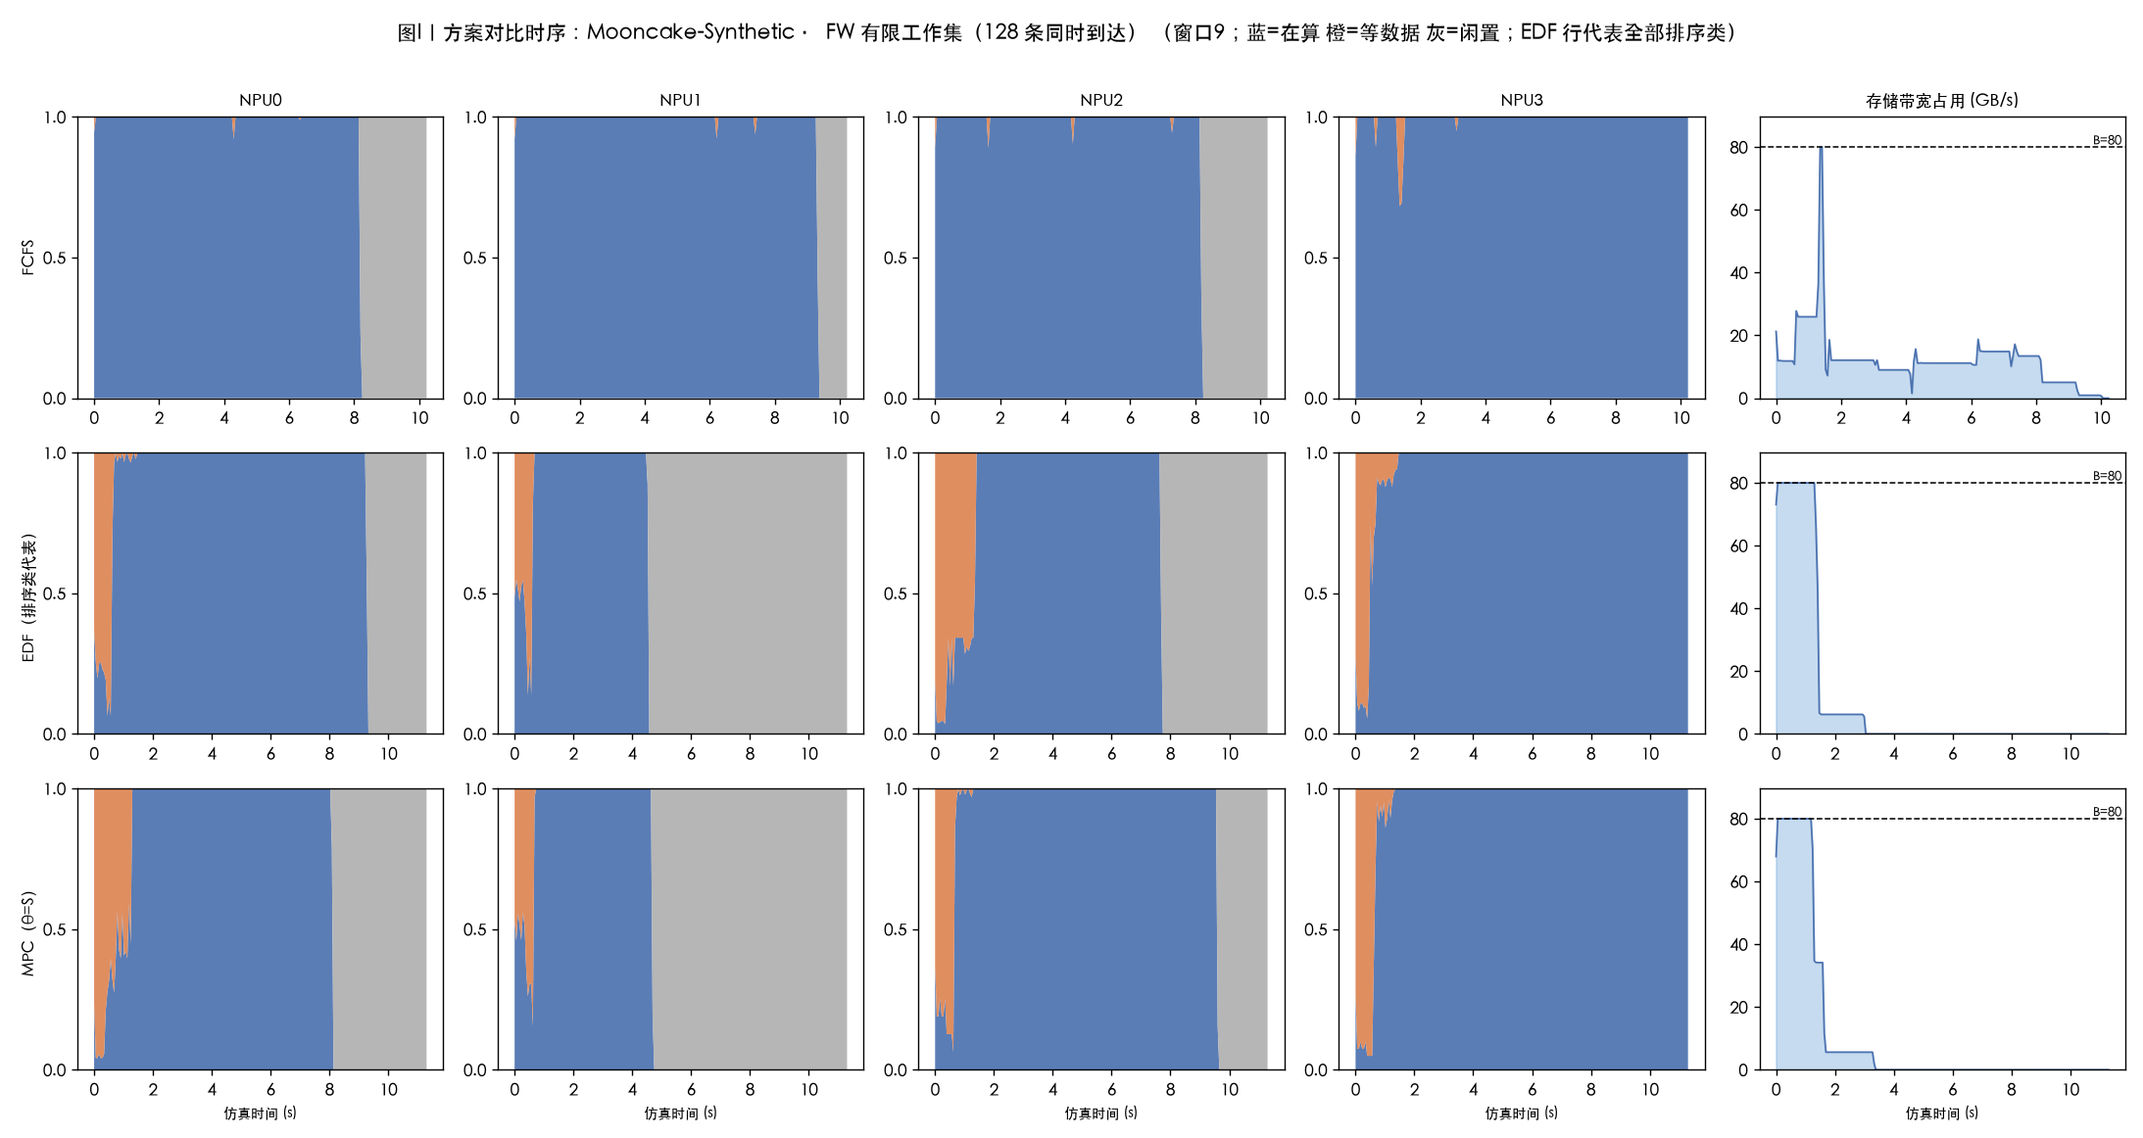
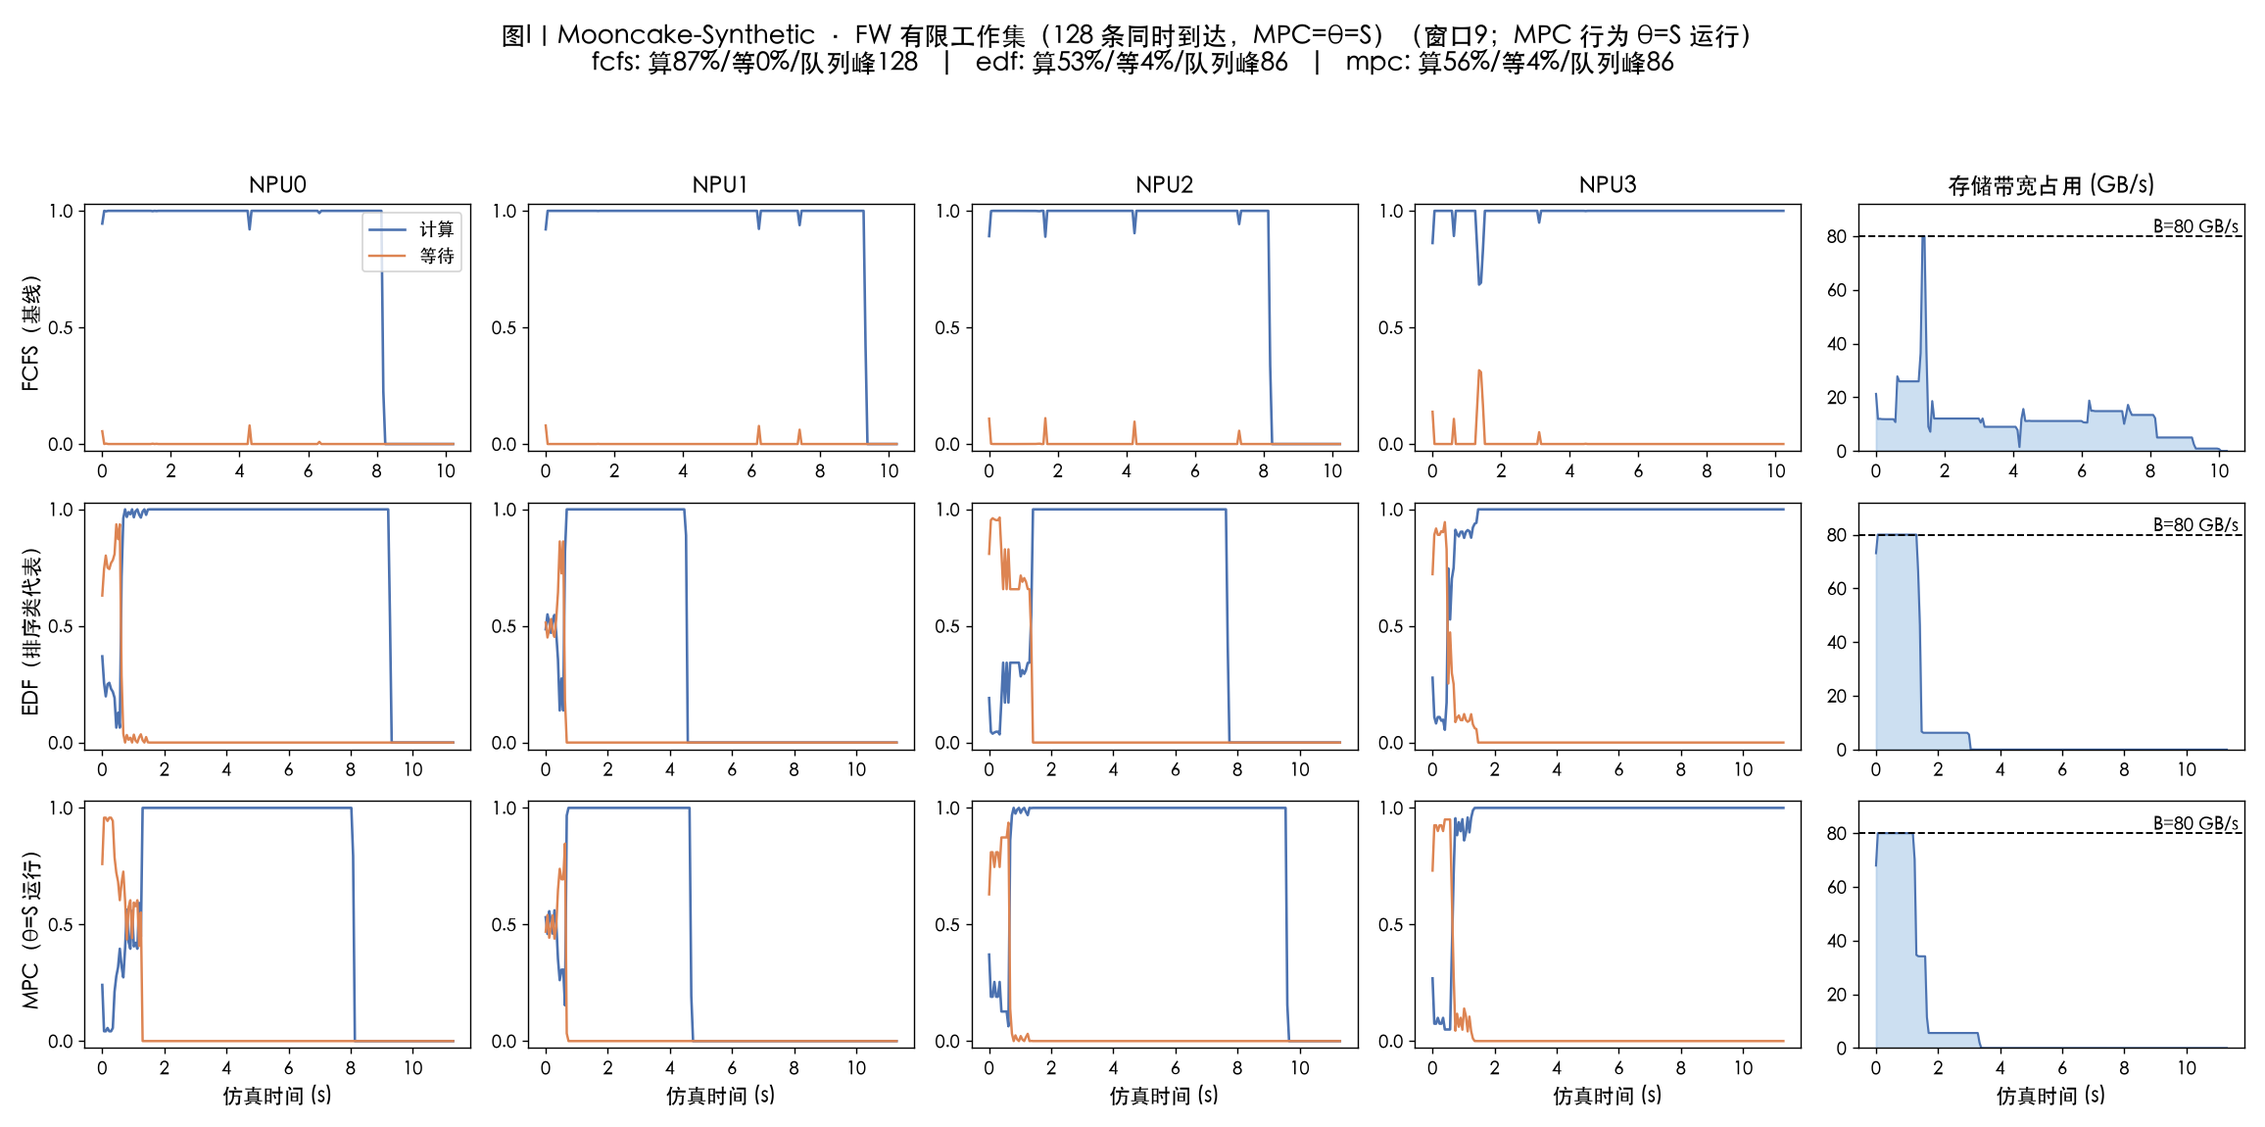
docs: 报告 v4.0——应用户六点反馈全面重构
①字号加大+suptitle 防重叠（tools/e25_redraw.py 统一重绘 34 张）；
②每 NPU 时序改为'计算/等待两条线'（替代三色堆叠），图 I 标题含
  统计行；
③时序图内嵌 §4.1~4.3 各表之后（表→图→成因分析连读），标注版
  5 张（objectives/pareto/OLbase/FWbase/B 因子：中位数值、FCFS→MPC
  位移箭头、EDF 长尾粉区）；
④θ 口径声明（表列=优化该指标的 θ 运行；图 I MPC 行=θ=S）；
⑤§5.6 补 local vs MPC 辨析；⑥§5.7 补搜索逻辑（广度一步前瞻、
  非梯度、停止条件）与 FCFS 成本辨析；⑦报告更名 20260919。
测试 147 passed，26 张嵌图路径零缺失。

diff --git a/docs/MPC方案图解-20260916.html b/docs/MPC方案图解-20260916.html
@@ -489,7 +489,7 @@
 <footer>
   本页三个候选的全部时间线与打分数值来自规格 §11.2 的"四计划金标"（Fraction 严格相等逐数复现，测试覆盖）；
   其中"读L1（断续）"等分段为可视化近似，完成时刻 F 为精确值。实验结论部分对应
-  <a href="../测试报告-E25实施-20260916.md">E25 测试报告</a> §5–§7。
+  <a href="../测试报告-E25实施-20260919.md">E25 测试报告</a> §5–§7。
 </footer>
 
 </main>

diff --git a/tools/e25_redraw.py b/tools/e25_redraw.py
@@ -1,0 +1,353 @@
+"""E25 报告图统一重绘（20260919 应用户六点反馈）：
+
+- 全部图：字号加大（轴 11/标题 13/suptitle 15），suptitle 预留空间防重叠；
+- 每 NPU 时序改为"计算/等待两条线"（不再三色堆叠）：蓝线=计算占比、
+  橙线=等待占比，纵轴 0~1；
+- 关键图附"标注版"（_annot 后缀）：程序化加框/箭头/文字，指出看点了；
+- 图 I 的 MPC 行显式标 θ（OL/FW 均为 θ=S 运行，与 §4 表同口径）。
+从归档 records/ts 直接生成，覆盖 docs/figures 下同名 cq_fig_e25_*。
+"""
+from __future__ import annotations
+
+import gzip
+import json
+import os
+import sys
+from collections import defaultdict
+
+import numpy as np
+
+sys.path.insert(0, os.getcwd())
+from sim.cq.trace import MOONCAKE_FILES, TRACE_LABEL
+
+REPO = os.path.dirname(os.path.dirname(os.path.abspath(__file__)))
+TS_ROOT = os.path.join(REPO, "results", "cq", "eval", "e25", "ts")
+FIG = os.path.join(REPO, "docs", "figures")
+W5 = [0, 4, 9, 14, 19]
+
+C_COMP, C_STALL, C_IDLE = "#4C72B0", "#DD8452", "#B0B0B0"
+PCOL = {"cq_fcfs": "#000000", "cq_lpm": "#8C8C8C", "cq_spt": "#4C72B0",
+        "cq_edf": "#DD8452", "cq_slack": "#55A868", "cq_pair": "#8172B3",
+        "cq_local": "#937860", "cq_mpc": "#DA8BC3"}
+
+
+def plt_setup():
+    import matplotlib
+    matplotlib.use("Agg")
+    import matplotlib.pyplot as plt
+    plt.rcParams.update({
+        "font.sans-serif": ["PingFang SC", "Heiti SC", "Songti SC", "DejaVu Sans"],
+        "axes.unicode_minus": False, "font.size": 11.5,
+        "axes.titlesize": 13, "axes.labelsize": 12, "figure.titlesize": 15,
+        "xtick.labelsize": 10.5, "ytick.labelsize": 10.5, "legend.fontsize": 10.5})
+    return plt
+
+
+def load_records():
+    return json.load(open(os.path.join(REPO, "results/cq/eval/e25/e25_records.json"),
+                          encoding="utf-8"))
+
+
+def cell_ts(mode, fname, B, rho, pid, suffix="", w=9, cap="C", prof="default"):
+    stem = fname.replace("_trace.jsonl", "").replace(".jsonl", "")
+    rho_s = "-" if rho is None else f"{rho:g}"
+    cid = f"{stem}|{mode}|B{B:g}|rho{rho_s}|a4|{cap}|{prof}|w{w}"
+    p = os.path.join(TS_ROOT, cid, f"{pid}{suffix}.json.gz")
+    if not os.path.exists(p):
+        return None
+    with gzip.open(p, "rt", encoding="utf-8") as f:
+        return json.load(f)
+
+
+def lines_of(ts, wi=None):
+    """→ (xs, comp_frac, stall_frac)：每 NPU 或全体（wi=None 时对 m 求和）。"""
+    xs, cf, sf = [], [], []
+    for r in ts["rows"]:
+        if r["width_s"] <= 0:
+            continue
+        if wi is None:
+            c = sum(w[0] for w in r["workers"]); s = sum(w[1] for w in r["workers"])
+            m = len(r["workers"])
+        else:
+            c, s, _i = r["workers"][wi]; m = 1
+        xs.append(r["t_start_s"]); cf.append(c / r["width_s"] / m)
+        sf.append(s / r["width_s"] / m)
+    return xs, cf, sf
+
+
+# ---------------------------------------------------------------- 图 I 系列
+def fig_cmp(plt, recs, tag, mode, fname, B, rho, title, annot=False):
+    rows = [("cq_fcfs", "", "FCFS（基线）"), ("cq_edf", "", "EDF（排序类代表）"),
+            ("cq_mpc", "_S", "MPC（θ=S 运行）")]
+    fig, axes = plt.subplots(3, 5, figsize=(18.5, 9.2))
+    tss = {}
+    for ri, (pid, suf, label) in enumerate(rows):
+        ts = cell_ts(mode, fname, B, rho, pid, suf)
+        tss[pid] = ts
+        for wi in range(4):
+            ax = axes[ri][wi]
+            xs, cf, sf = lines_of(ts, wi)
+            ax.plot(xs, cf, color=C_COMP, lw=1.5, label="计算")
+            ax.plot(xs, sf, color=C_STALL, lw=1.4, label="等待")
+            ax.set_ylim(-0.03, 1.03); ax.set_yticks([0, .5, 1])
+            if ri == 0: ax.set_title(f"NPU{wi}")
+            if wi == 0: ax.set_ylabel(label, fontsize=12)
+            if ri == 2: ax.set_xlabel("仿真时间 (s)")
+            if ri == 0 and wi == 0: ax.legend(loc="upper right")
+        ax = axes[ri][4]
+        xs, rate = [], []
+        for r in ts["rows"]:
+            if r["width_s"] > 0:
+                xs.append(r["t_start_s"]); rate.append(r["served_gb"] / r["width_s"])
+        b = float(ts["meta"]["b_schedule"][0][1])
+        ax.fill_between(xs, rate, color="#8fb8e0", alpha=.45)
+        ax.plot(xs, rate, color=C_COMP, lw=1.2)
+        ax.axhline(b, color="k", ls="--", lw=1.1)
+        ax.text(0.985, b, f"B={b:g} GB/s", transform=ax.get_yaxis_transform(),
+                va="bottom", ha="right", fontsize=10.5)
+        ax.set_ylim(0, b * 1.15)
+        if ri == 0: ax.set_title("存储带宽占用 (GB/s)")
+        if ri == 2: ax.set_xlabel("仿真时间 (s)")
+    # 统计行（写进 caption 素材）
+    stats = {}
+    for pid, ts in tss.items():
+        rowsv = [r for r in ts["rows"] if r["width_s"] > 0]
+        tot = sum(r["compute_s"] + r["stall_s"] + r["idle_s"] for r in rowsv)
+        q = [r["queue_mean"] for r in rowsv if r["queue_mean"] is not None]
+        stats[pid] = (sum(r["compute_s"] for r in rowsv) / tot,
+                      sum(r["stall_s"] for r in rowsv) / tot,
+                      max(q) if q else 0)
+    txt = "   |   ".join(f"{k.split('_')[1]}: 算{v[0]:.0%}/等{v[1]:.0%}/队列峰{v[2]:.0f}"
+                         for k, v in stats.items())
+    fig.suptitle(f"图I｜{TRACE_LABEL[fname]} · {title}（窗口9；MPC 行为 θ=S 运行）\n{txt}")
+    fig.tight_layout(rect=(0, 0, 1, 0.93))
+    if annot:
+        _annot_cmp(fig, axes, tss, tag)
+    fig.savefig(os.path.join(FIG, f"cq_fig_e25_cmp_{tag}_"
+                            f"{fname.split('_')[0]}{'' if not annot else '_annot'}.png"),
+                dpi=125)
+    plt.close(fig)
+    return stats
+
+
+def _annot_cmp(fig, axes, tss, tag):
+    """程序化标注：按数据找关键区加红框与文字。"""
+    if tag == "FWbase":
+        edf = tss["cq_edf"]
+        xs, cf, _ = lines_of(edf, 0)
+        if xs:
+            t_end = xs[-1]
+            t0 = t_end * 0.6
+            for wi in range(4):
+                ax = axes[1][wi]
+                ax.axvspan(t0, t_end, color="#C44E52", alpha=.12)
+            axes[1][0].annotate("EDF 长尾：短优先把长请求\n留到最后，NPU 大面积闲置",
+                                 xy=(t_end * .8, .55), xytext=(t_end * .25, .75),
+                                 fontsize=11, color="#C44E52",
+                                 arrowprops=dict(arrowstyle="->", color="#C44E52"))
+    if tag == "OLbase":
+        mpc = tss["cq_mpc"]
+        rowsv = [r for r in mpc["rows"] if r["width_s"] > 0]
+        q = [r["queue_mean"] for r in rowsv]
+        pk = int(np.argmax(q))
+        axes[2][4].annotate(f"MPC 队列峰更快回落（见统计行）",
+                            xy=(rowsv[pk]["t_start_s"], rowsv[pk]["served_gb"] / rowsv[pk]["width_s"]),
+                            xytext=(rowsv[pk]["t_start_s"] * .35,
+                                    float(mpc["meta"]["b_schedule"][0][1]) * .8),
+                            fontsize=11, color="#2e8b57",
+                            arrowprops=dict(arrowstyle="->", color="#2e8b57"))
+
+
+# ---------------------------------------------------------------- 图 G（两线制）
+def fig_per_npu(plt, fname, B, w=9):
+    ts = cell_ts("OL", fname, B, 0.6, "cq_fcfs", "", w=w)
+    fig, axes = plt.subplots(4, 3, figsize=(16.5, 10.5))
+    for ci, (f2, _n, _m, _s) in enumerate(MOONCAKE_FILES):
+        t = ts if f2 == fname else cell_ts("OL", f2, B, 0.6, "cq_fcfs", "", w=w)
+        for wi in range(4):
+            ax = axes[wi][ci]
+            xs, cf, sf = lines_of(t, wi)
+            ax.plot(xs, cf, color=C_COMP, lw=1.5, label="计算")
+            ax.plot(xs, sf, color=C_STALL, lw=1.4, label="等待")
+            ax.set_ylim(-0.03, 1.03)
+            if wi == 0: ax.set_title(TRACE_LABEL[f2])
+            if ci == 0: ax.set_ylabel(f"NPU{wi}")
+            if wi == 3: ax.set_xlabel("仿真时间 (s)")
+            if wi == 0 and ci == 0: ax.legend(loc="upper right")
+    fig.suptitle(f"图G｜每 NPU 的计算/等待两条线（OL 窗口{w}、FCFS、B={B:g} GB/s）")
+    fig.tight_layout(rect=(0, 0, 1, 0.95))
+    fig.savefig(os.path.join(FIG, f"cq_fig_e25_ts_per_npu_B{B:g}.png"), dpi=125)
+    plt.close(fig)
+
+
+# ---------------------------------------------------------------- 图 A / C
+def fig_objectives(plt, recs, annot=False):
+    sub = [r for r in recs if r["factor_line"] == "baseline" and r["mode"] == "FW"]
+    th_of = {"M": "M", "slo_rate": "S", "ttft_mean_lower": "T",
+             "ttft_norm_mean_lower": "R"}
+    thm = {"M": "M", "slo_rate": "S", "ttft_mean_lower": "T",
+           "ttft_norm_mean_lower": "R"}
+    metrics = [("M", "makespan_M", "M：最后完成 (s)"),
+               ("slo_rate", "slo_rate", "SLO 满足率"),
+               ("ttft_mean_lower", "ttft_mean_lower", "平均 TTFT (s)"),
+               ("ttft_norm_mean_lower", "ttft_norm_mean_lower", "平均归一化 TTFT")]
+    fmark = {"conversation_trace.jsonl": "o", "toolagent_trace.jsonl": "s",
+             "synthetic_trace.jsonl": "^"}
+    fcol = {"conversation_trace.jsonl": "#4C72B0", "toolagent_trace.jsonl": "#DD8452",
+            "synthetic_trace.jsonl": "#55A868"}
+    pols = ["cq_fcfs", "cq_lpm", "cq_spt", "cq_edf", "cq_slack", "cq_pair",
+            "cq_local", "cq_mpc"]
+    fig, axes = plt.subplots(2, 2, figsize=(15.5, 10))
+    for ax, (mk, key, ylab) in zip(axes.flat, metrics):
+        for pi, p in enumerate(pols):
+            vals = []
+            for r in sub:
+                if r["policy"] != p or r["theta"] != thm[mk]:
+                    continue
+                v = (r["slo_success"] / r["n_cohort"]) if key == "slo_rate" else r.get(key)
+                if v is None and key == "makespan_M":
+                    v = r.get("makespan_M_lower")
+                if v is not None:
+                    vals.append(v)
+                    ax.scatter(pi, v, marker=fmark[r["file"]], s=26, alpha=.5,
+                               color=fcol[r["file"]])
+            if vals:
+                med = float(np.median(vals))
+                ax.hlines(med, pi - .32, pi + .32, color="k", lw=2.4)
+                if annot:
+                    ax.annotate(f"{med:.3g}", (pi, med), xytext=(0, 6),
+                                textcoords="offset points", ha="center",
+                                fontsize=10, fontweight="bold")
+        ax.set_xticks(range(len(pols)))
+        ax.set_xticklabels([p.replace("cq_", "") for p in pols], rotation=32)
+        ax.set_title(ylab + ("（每列=优化该指标的 θ 运行）" if annot else ""))
+        ax.grid(alpha=.25, axis="y")
+    fig.suptitle("图A｜FW 基线四目标绝对值：点=文件×窗口（形状/颜色区分），黑线=中位数"
+                 + ("；数值为中位数标注版" if annot else ""))
+    fig.tight_layout(rect=(0, 0, 1, 0.94))
+    fig.savefig(os.path.join(FIG, "cq_fig_e25_objectives" + ("_annot" if annot else "") + ".png"), dpi=125)
+    plt.close(fig)
+
+
+def fig_pareto(plt, recs, annot=False):
+    sub = [r for r in recs if r["factor_line"] == "baseline" and r["mode"] == "FW"
+           and r["theta"] == "M"]
+    fmark = {"conversation_trace.jsonl": "o", "toolagent_trace.jsonl": "s",
+             "synthetic_trace.jsonl": "^"}
+    fig, axes = plt.subplots(1, 2, figsize=(14.5, 6.4))
+    cent = defaultdict(list)
+    for r in sub:
+        x1 = r.get("makespan_M") or r.get("makespan_M_lower")
+        y1 = r["slo_success"] / r["n_cohort"]
+        x2 = r["ttft_mean_lower"]; y2 = r["ttft_norm_mean_lower"]
+        axes[0].scatter(x1, y1, marker=fmark[r["file"]], s=30, alpha=.6,
+                        color=PCOL[r["policy"]])
+        axes[1].scatter(x2, y2, marker=fmark[r["file"]], s=30, alpha=.6,
+                        color=PCOL[r["policy"]])
+        cent[r["policy"]].append((x1, y1, x2, y2))
+    for p, vs in cent.items():
+        if vs and annot and p in ("cq_fcfs", "cq_edf", "cq_mpc"):
+            a = np.mean(vs, axis=0)
+            axes[0].annotate(p.replace("cq_", ""), (a[0], a[1]), fontsize=12,
+                             fontweight="bold", xytext=(6, 4),
+                             textcoords="offset points", color=PCOL[p])
+            axes[1].annotate(p.replace("cq_", ""), (a[2], a[3]), fontsize=12,
+                             fontweight="bold", xytext=(6, 4),
+                             textcoords="offset points", color=PCOL[p])
+    axes[0].set_xlabel("M：最后完成 (s)"); axes[0].set_ylabel("SLO 满足率")
+    axes[0].set_title("M–SLO 平面（左上=优）")
+    axes[1].set_xlabel("平均 TTFT (s)"); axes[1].set_ylabel("平均归一化 TTFT")
+    axes[1].set_title("TTFT–归一化 平面（左下=优）")
+    for ax in axes: ax.grid(alpha=.3)
+    if annot:
+        vs_f = np.mean(cent["cq_fcfs"], axis=0); vs_m = np.mean(cent["cq_mpc"], axis=0)
+        axes[0].annotate("", xy=(vs_m[0], vs_m[1]), xytext=(vs_f[0], vs_f[1]),
+                         arrowprops=dict(arrowstyle="->", lw=2.4, color="#2e8b57"))
+        axes[0].text(.98, .02, "绿箭头：FCFS→MPC 的平均位移\n（左上移=双双改善）",
+                     transform=ax.transAxes if False else axes[0].transAxes,
+                     ha="right", fontsize=11, color="#2e8b57")
+    fig.suptitle("图C｜目标冲突散点（FW 基线、θ=M 运行；点=策略×文件×窗口；颜色=策略、形状=文件）"
+                 + ("；含 FCFS→MPC 平均位移箭头" if annot else ""))
+    fig.tight_layout(rect=(0, 0, 1, 0.92))
+    fig.savefig(os.path.join(FIG, "cq_fig_e25_pareto" + ("_annot" if annot else "") + ".png"), dpi=125)
+    plt.close(fig)
+
+
+# ---------------------------------------------------------------- 图 B（含标注版）
+def fig_factor(plt, recs, line, out_name, annot=False):
+    levels_l = {"line_B": ([20.0, 80.0, 320.0], lambda r: r["B"], "B (GB/s)"),
+                "line_alpha": ([2, 4, 8], lambda r: r["alpha"], "SLO 倍数 α"),
+                "line_rho": ([0.3, 0.6, 0.9, 1.1], lambda r: r["rho"], "负载 ρ")}
+    levels, get, xlab = levels_l[line]
+    rows = [("SLO 满足率", "slo_rate", "S"), ("平均 TTFT (s)", "ttft_mean_lower", "T"),
+            ("平均归一化 TTFT", "ttft_norm_mean_lower", "R"),
+            ("排空 M 下界 (s)", "drain_M", "S")]
+    sub_all = [r for r in recs if r["factor_line"] in ("baseline", line)
+               and r["mode"] == "OL"]
+    pols = ["cq_fcfs", "cq_spt", "cq_edf", "cq_mpc"]
+    files = [f for f, _n, _m, _s in MOONCAKE_FILES]
+    fig, axes = plt.subplots(4, 3, figsize=(16.5, 12.5))
+    for ci, f in enumerate(files):
+        for ri, (ylab, key, th) in enumerate(rows):
+            ax = axes[ri][ci]
+            for p in pols:
+                xs, med, lo, hi = [], [], [], []
+                for lv in levels:
+                    vs = []
+                    for r in sub_all:
+                        if r["file"] != f or r["policy"] != p or r["theta"] != th:
+                            continue
+                        if get(r) != lv:
+                            continue
+                        v = (r["slo_success"] / r["n_cohort"]) if key == "slo_rate" else r.get(key)
+                        if v is not None:
+                            vs.append(v)
+                    if vs:
+                        xs.append(levels.index(lv)); med.append(float(np.median(vs)))
+                        lo.append(min(vs)); hi.append(max(vs))
+                if xs:
+                    ax.plot(xs, med, marker="o", ms=5, lw=1.8,
+                            label=p.replace("cq_", ""), color=PCOL[p])
+                    ax.fill_between(xs, lo, hi, alpha=.12, color=PCOL[p])
+            ax.set_xticks(range(len(levels)))
+            ax.set_xticklabels([str(l) for l in levels])
+            if ci == 0: ax.set_ylabel(f"{ylab}", fontsize=11.5)
+            if ri == 0: ax.set_title(TRACE_LABEL[f])
+            if ri == 3: ax.set_xlabel(xlab)
+            ax.grid(alpha=.25)
+    handles, labels = axes[0][0].get_legend_handles_labels()
+    fig.legend(handles, labels, loc="lower center", ncol=4)
+    fig.suptitle(f"图B｜因子响应：{line}（OL；线=窗口中位数、带=min–max；MPC=θ 对应运行）")
+    fig.tight_layout(rect=(0, 0.045, 1, 0.955))
+    fig.savefig(os.path.join(FIG, f"cq_fig_e25_factor_{out_name}"
+                            + ("_annot" if annot else "") + ".png"), dpi=125)
+    plt.close(fig)
+
+
+def main():
+    plt = plt_setup()
+    recs = load_records()
+    # 图 I（两线制）+ 标注版两张
+    jobs = [("OLbase", "OL", 80.0, 0.6, "OL 基线（B=80, ρ=0.6）"),
+            ("OLB20", "OL", 20.0, 0.6, "OL 带宽受限（B=20）"),
+            ("OLr03", "OL", 80.0, 0.3, "OL 低负载（ρ=0.3）"),
+            ("OLr11", "OL", 80.0, 1.1, "OL 过载（ρ=1.1）"),
+            ("FWbase", "FW", 80.0, None, "FW 有限工作集（128 条同时到达，MPC=θ=S）")]
+    for tag, mode, B, rho, title in jobs:
+        for f, _n, _m, _s in MOONCAKE_FILES:
+            fig_cmp(plt, recs, tag, mode, f, B, rho, title,
+                    annot=(tag in ("OLbase", "FWbase") and
+                           f == "conversation_trace.jsonl"))
+    for B in (80.0, 20.0):
+        fig_per_npu(plt, "conversation_trace.jsonl", B)
+    fig_objectives(plt, recs, annot=False)
+    fig_objectives(plt, recs, annot=True)
+    fig_pareto(plt, recs, annot=False)
+    fig_pareto(plt, recs, annot=True)
+    for line, out in [("line_B", "B"), ("line_alpha", "alpha"), ("line_rho", "rho")]:
+        fig_factor(plt, recs, line, out, annot=(line == "line_B"))
+    print("重绘完成")
+
+
+if __name__ == "__main__":
+    main()
